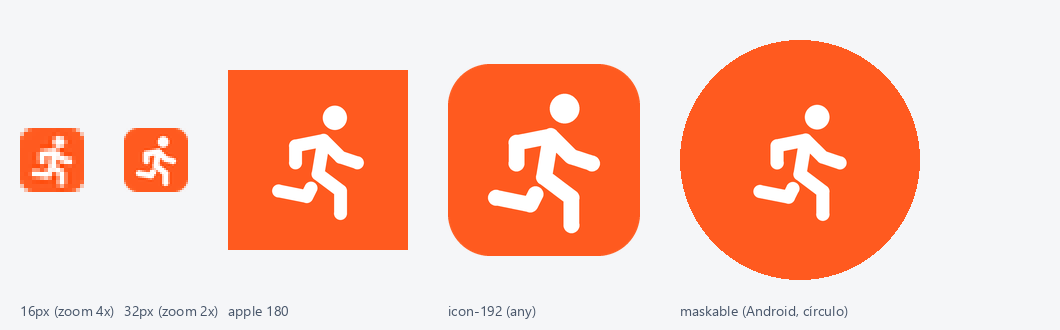
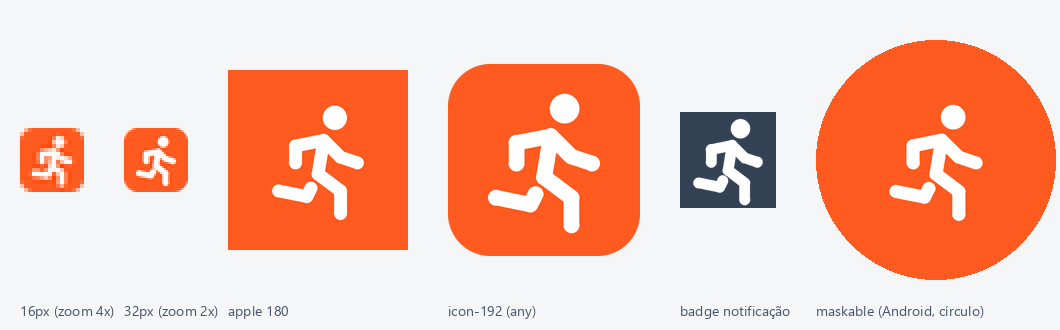
fix(web): badge próprio na notificação do lembrete
O Android usa só a transparência do badge (símbolo pequeno da barra) e
pinta por cima; com o ícone laranja opaco, o lembrete chegava com um
quadrado branco no lugar do ícone do app. O badge agora é o corredor
branco em fundo transparente, gerado por docs/design/gerar_icones.py.

Changed region(s): [[0.6226, 0.1212, 0.9962, 0.8485], [0.6538, 0.9091, 0.934, 0.9697]]

diff --git a/apps/web/public/sw.js b/apps/web/public/sw.js
@@ -84,6 +84,8 @@ self.addEventListener("fetch", (event) => {
 });
 
 // Lembrete do treino: o servidor manda só título, texto genérico e a página a abrir.
+// O badge é o símbolo pequeno da barra do Android: o sistema usa só a transparência, então
+// é o corredor branco em fundo transparente (o ícone laranja inteiro vira um quadrado branco).
 self.addEventListener("push", (event) => {
   let data = { title: "Let's Go Run", body: "", url: "/painel" };
   try {
@@ -92,7 +94,7 @@ self.addEventListener("push", (event) => {
     /* sem conteúdo legível: mostra o título do app */
   }
   event.waitUntil(
-    self.registration.showNotification(data.title, { body: data.body, icon: "/icon-192.png", badge: "/icon-192.png", tag: "lembrete-treino", data: { url: data.url } }),
+    self.registration.showNotification(data.title, { body: data.body, icon: "/icon-192.png", badge: "/notification-badge-96.png", tag: "lembrete-treino", data: { url: data.url } }),
   );
 });
 

diff --git a/docs/design/gerar_icones.py b/docs/design/gerar_icones.py
@@ -22,14 +22,15 @@ HEAD = (14, 4)
 GLYPH_CENTER = (11, 11.5)
 
 
-def render(size, *, scale_div, stroke, radius_ratio, ss=8):
-    """radius_ratio: 0 = quadrado cheio (full-bleed); >0 = cantos arredondados transparentes."""
+def render(size, *, scale_div, stroke, radius_ratio, ss=8, background=True):
+    """radius_ratio: 0 = quadrado cheio (full-bleed); >0 = cantos arredondados transparentes.
+    background=False: só o corredor branco em fundo transparente."""
     S = size * ss
     img = Image.new("RGBA", (S, S), (0, 0, 0, 0))
     d = ImageDraw.Draw(img)
-    if radius_ratio:
+    if background and radius_ratio:
         d.rounded_rectangle([0, 0, S - 1, S - 1], radius=int(S * radius_ratio), fill=ORANGE)
-    else:
+    elif background:
         d.rectangle([0, 0, S, S], fill=ORANGE)
 
     k = S / scale_div
@@ -92,6 +93,10 @@ for s in (192, 512):
 for s in (192, 512):
     render(s, scale_div=42, stroke=2.3, radius_ratio=0, ss=4).convert("RGB").save(OUT / f"icon-maskable-{s}.png", optimize=True)
 
+# Badge da notificação (símbolo pequeno da barra do Android): o sistema usa só a
+# transparência e pinta por cima, então é o corredor branco sem o fundo laranja.
+render(96, scale_div=23, stroke=2.6, radius_ratio=0, ss=4, background=False).save(OUT / "notification-badge-96.png", optimize=True)
+
 manifest = {
     "name": "Let's Go Run — Treino de corrida",
     "short_name": "Let's Go Run",
@@ -123,6 +128,9 @@ items = [
     (Image.open(OUT / "apple-touch-icon.png").convert("RGBA"), "apple 180"),
     (Image.open(OUT / "icon-192.png"), "icon-192 (any)"),
 ]
+badge = Image.new("RGBA", (96, 96), (51, 65, 85, 255))  # fundo escuro só para ver o branco
+badge.alpha_composite(Image.open(OUT / "notification-badge-96.png"))
+items.append((badge, "badge notificação"))
 mk = Image.open(OUT / "icon-maskable-512.png").convert("RGBA").resize((240, 240), Image.LANCZOS)
 mask = Image.new("L", (240, 240), 0)
 ImageDraw.Draw(mask).ellipse([0, 0, 239, 239], fill=255)

diff --git a/docs/especificacao.md b/docs/especificacao.md
@@ -159,6 +159,7 @@ O design já existe no Figma: https://www.figma.com/design/5MXW1UlDcv8avuf144pVd
   - `<link rel="apple-touch-icon" href="/apple-touch-icon.png">`
   - `<link rel="manifest" href="/manifest.webmanifest">`
   - `<meta name="theme-color" content="#111827">`
+  - O `notification-badge-96.png` é o badge do lembrete (símbolo pequeno da barra do Android): só o corredor branco em fundo transparente, porque o Android usa apenas a transparência e um ícone opaco vira um quadrado branco.
   - O `manifest.webmanifest` já lista os ícones `any` (192 e 512) e `maskable` (192 e 512). O PWA completo (service worker e offline) continua fora do MVP; o manifest e os ícones entram desde já.
   - Para mudar o ícone, edite e rode `docs/design/gerar_icones.py` (Python + Pillow) e atualize o frame no Figma.
 - Imagens decorativas usam `alt=""`; imagens com significado têm texto alternativo descritivo.
